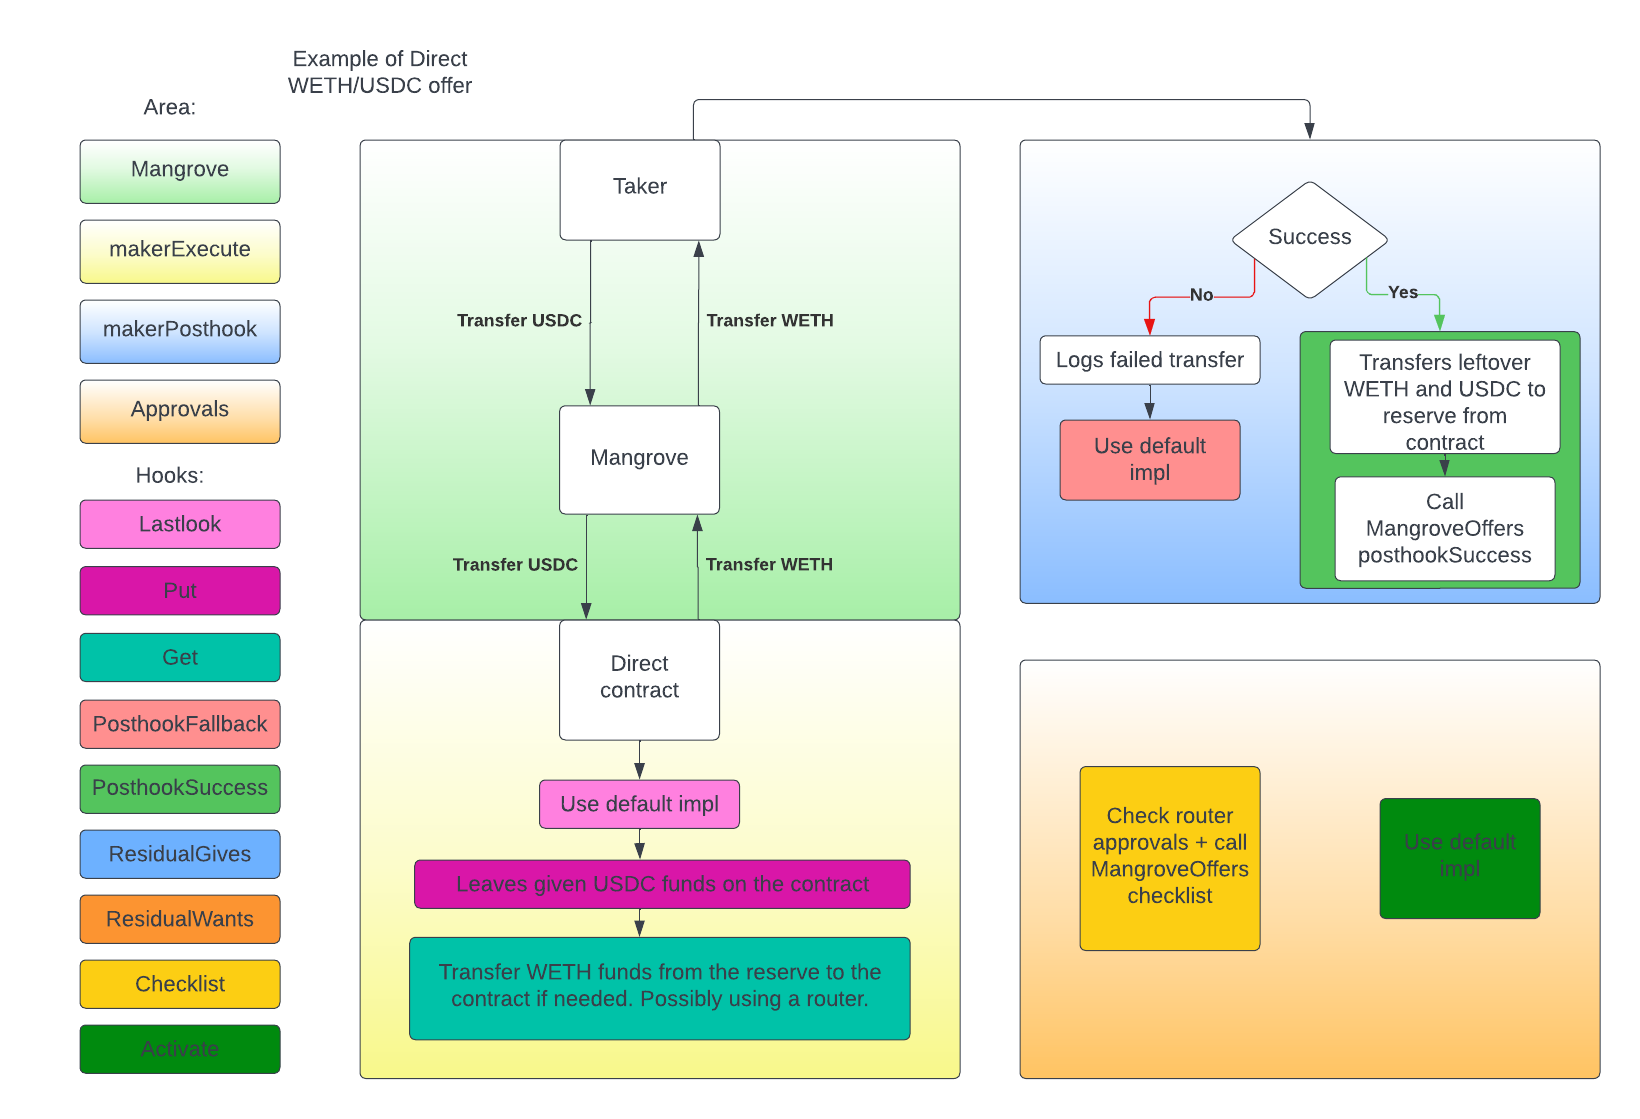
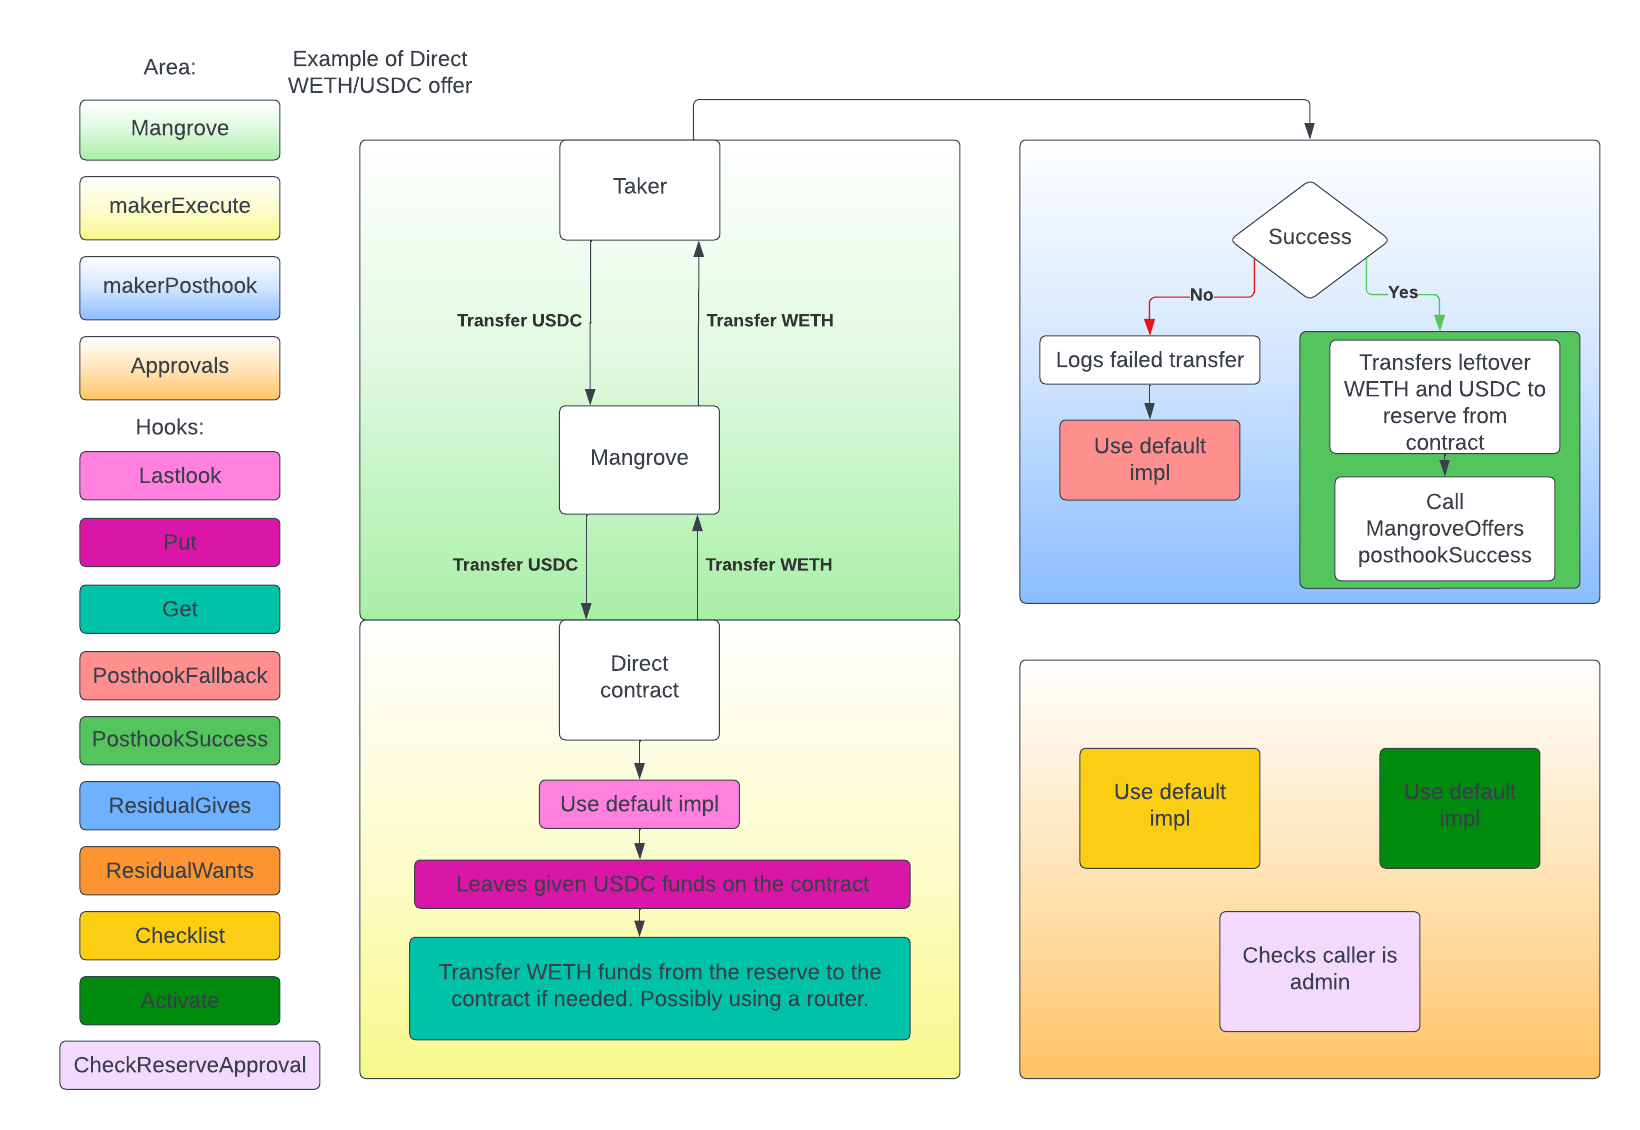
updated from comments and added reserve approval desc

diff --git a/offer-maker/Forwarder.md b/offer-maker/Forwarder.md
@@ -2,15 +2,19 @@
 
 Forwarder is an abstract implementation of [MangroveOffer](mangrover-offer.md), if you don't have a good understanding of MangroveOffer we recommend reading that page first. This page is going to compare the [Direct](Direct.md) implementation of MangroveOffer with Forwarder, we recommend reading about [Direct](Direct.md) before reading this page.
 
-Forwarder should be seen as an implementation the can be used by multiple users. This means that not only the admin can post offers, update offers and retract offers. But anyone can use this contract to post, update or retract offers. Because of this, Forwarder needs to keep track of who owns which offer and what the reserve is for the caller. This is the key difference between Direct and Forwarder.
+Forwarder should be seen as an implementation the can be used by multiple offer makers. This means that anyone can manage offers using the contract. Because of this, Forwarder needs to keep track of who owns which offer and what the reserve is for the caller. This is the key difference between Direct and Forwarder.
 
 Forwarder does many of the same things as MangroveOffer and Direct with a few key differences.
 
-1. After the funds have been transferred from the taker to the Forwarder contract, it transfers the funds to the reserve of the offer owner. The reason for this, is that it cannot leave the funds on the contract, since the caller is not necessarily the admin of the contract. It therefore has to transfer the funds right away to the offer owner.
-2. Since the contract cannot be used as the reserve for a Forwarder contract, this means that is also has to transfer the funds from the reserve to the Forwarder contract. This is again because multiple users can use the contract.
-3. When the offer has been successfully taken, it has no funds on the contract itself (vs. Direct where the funds are still on the contract). It therefore has no extra actions and just uses the default implementation of MangroveOffer.
-4. If the offer fails, then this means that the taker was given a bounty for using gas trying to take a failing offer. But the bounty for the taker, is not necessarily the same amount as the amount that was provisioned for the offer. If there is still some provision left on the offer, Forwarder keeps track of the remaining provision, that is no longer locked to the offer. The same way it keeps track of who owns an offer it also saves how much free provision is left on the offer.
-5. The Forwarder contract has to use a router, it is not possible to leave the responsibility of transferring the funds to and from the reserve to the contract itself. <!-- FIXME: Would be nice with proper reason for this -->
+**How inbound tokens are deposited to the maker:** After the funds have been transferred from the taker to the Forwarder contract, it transfers the funds to the reserve of the offer owner. The reason for this, is that it cannot leave the funds on the contract, since the inbound tokens need to be distributed to each offer owners. When the offer has been successfully taken, it has no funds on the contract itself (vs. Direct where the funds are still on the contract). It therefore has no extra actions and just uses the default implementation of MangroveOffer.
+
+**How outbound tokens are deposited to the taker:** Since the contract cannot be used as the reserve for a Forwarder contract, this means that is also has to transfer the funds from the reserve to the Forwarder contract. This is again because multiple users can use the contract.
+
+**Approvals:** When Forwarder checks whether the maker is allowed to set the a given address as its reserve, it first checks if the maker trying to set an empty address. This is allowed and the makers address will be used as the reserve. If the address is not empty, then it checks whether the address has approved the maker to use it as its reserve. This is different than Direct, since Forwarder has multiple makers, it has to keep track on which makers can use a reserve.
+
+**Provision tracking:** If the offer fails, then this means that the taker was given a bounty for using gas trying to take a failing offer. But the bounty for the taker, is not necessarily the same amount as the amount that was provisioned for the offer. If there is still some provision left on the offer, Forwarder keeps track of the remaining provision, that is no longer locked to the offer. The same way it keeps track of who owns an offer it also saves how much free provision is left on the offer.
+
+**Routing:** The Forwarder contract has to use a router, it is not possible to leave the responsibility of transferring the funds to and from the reserve to the contract itself. <!-- FIXME: Would be nice with proper reason for this -->
 
 Where MangroveOffer has not implementation of posting a new offer, updating offers or retracting offers and Direct has very simple implementation of the methods. Forwarder needs more logic, because it has to keep track of who posts what offer. This means Forwarder keeps an internal map, where it can look up any offer id on any market, and see who owns that offer.
 When posting a new offer, the offer id is returned. The poster has keep track of on what market they posted and what id was used. If they forget this, there is no way of knowing what offers on which markets, that they own.

diff --git a/offer-maker/Direct.md b/offer-maker/Direct.md
@@ -6,11 +6,12 @@ Direct should be seen as an implementation that only works for one user, the adm
 
 Direct does many of the same things as MangroveOffer with a few key differences.
 
-1. After the funds have been transferred from the taker to the Direct contract, it chooses to leave the funds on the contract.
-2. When transferring the funds from the contract to the taker, Direct first tries to check if it itself has the funds, otherwise tries to get the funds from the reserve either by using a router or by using the contract itself. This means that if the contract already has the funds, no extra transfers are needed.
-3. When the offer is taken, the contract now holds the inbound token, which means that if the reserve was not set to the contract, then a new transfer is need to transfer the funds from the contract to the reserve. This is because of point 1 where the funds are left on the contract. The reason for leaving the funds on the contract, is that multiple offers may be taken and this will result in a cumulative number of funds being left on the contract. And instead of transferring them doing every order, it is cheaper in gas to wait until after all offers are taken, and then transfer all the funds left on the contract to the reserve, in on transfer instead of multiple transfers.
-4. When checking if a token has the correct approvals, Direct also uses the router to check if the router has additional approvals needed.
+**How inbound tokens are deposited to the maker:** After the funds have been transferred from the taker to the Direct contract, it chooses to leave received funds on the contract's balance, until `makerPosthook` is called. The reason for leaving the funds on the contract is that multiple offers posted by this contract may be taken in the same market order. This will result in a cumulative amount of inbound tokens being on the contract's balance. Instead of transferring them during each call to `makerExecute`, it is cheaper in gas to wait until after all offers are taken, and then transfer all the funds left on the contract to the reserve.
 
-MangroveOffer has not implementations of how to post a new offer, update an offer or retract an offer. Direct offers default implementations for this. Posting a new offer and updating an offer, is very simply done by forwarding the call to Mangroves own methods for post a new offer and updating an offer. Retracting a offer using Direct, will also forward the call to Mangroves own retract offer method. But since the Direct contract is the actual address that post the offers on Mangrove, then if one chooses to deprovision<!-- FIXME: link to description of this --> the offer, all provisions will  be return to the Direct contract. The Direct contract therefore implements an option to transfer the provision back to the admin of the contract.
+**How outbound tokens are deposited to the taker:** When transferring the funds from the contract to the taker, Direct first tries to check if it itself has the funds, otherwise tries to get the funds from the reserve either by using a router or by using the contract itself. This means that if the contract already has the funds, no extra transfers are needed.
+
+**Approvals:** When Direct checks if the maker is allowed to set a given address as the reserve, it just checks whether the caller is the admin of the contract. Since the contract can only be used by the admin, there is no need to check anything else.
+
+MangroveOffer has no implementations of how to post a new offer, update an offer or retract an offer. Direct offers default implementations for this. Posting a new offer and updating an offer, is very simply done by forwarding the call to Mangroves own methods for post a new offer and updating an offer. Retracting a offer using Direct, will also forward the call to Mangroves own retract offer method. But since the Direct contract is the actual address that posts the offers on Mangrove, then if one chooses to deprovision<!-- FIXME: link to description of this --> the offer, all provisions will  be return to the Direct contract. The Direct contract therefore implements an option to transfer the provision back to the admin of the contract.
 
 ![Flow of taking a offer made by Direct](../.gitbook/assets/Direct.png)

diff --git a/offer-maker/mangrover-offer.md b/offer-maker/mangrover-offer.md
@@ -26,6 +26,8 @@ Besides having hooks while the offer is taken and after. MangroveOffer also has 
 
 **Activate** is a hook that is meant for giving correct approvals for a token. MangroveOffer has a default implementation of the hook, that approves Mangrove and maybe the router, and then calls additional approvals on the router. An example of how to use this hook would be to, use the default implementation and also do additional approvals, e.g. if an extra address is used for transfers, then this address probably needs to be approved. <!--FIXME: Should link to a more comprehensive description of routers. -->
 
+**CheckReserveApproval** is a hook that should check whether the reserve has approved the maker to use it. This is needed so that a maker don't use the reserve without the approval of the owner of the reserve. If this was allowed, it would be possible to set your reserve to the same as someone with a large amount of tokens and steal there tokens, when offers a taken. MangroveOffer has no default implementation. The hook is used, when the a maker tries to set their reserve.
+
 A **Router** is a contract that can handle more comprehensive transfers. E.g. if you want to lend the money, when the offer is taken, then a router would be able to handle this. A more comprehensive description of Routers can be found here LINK. <!--FIXME: Link to router description-->
 
 Mangrove has 2 default implementations of MangroveOffer, they can be found here, [Direct](Direct.md) and [Forwarder](Forwarder.md).
